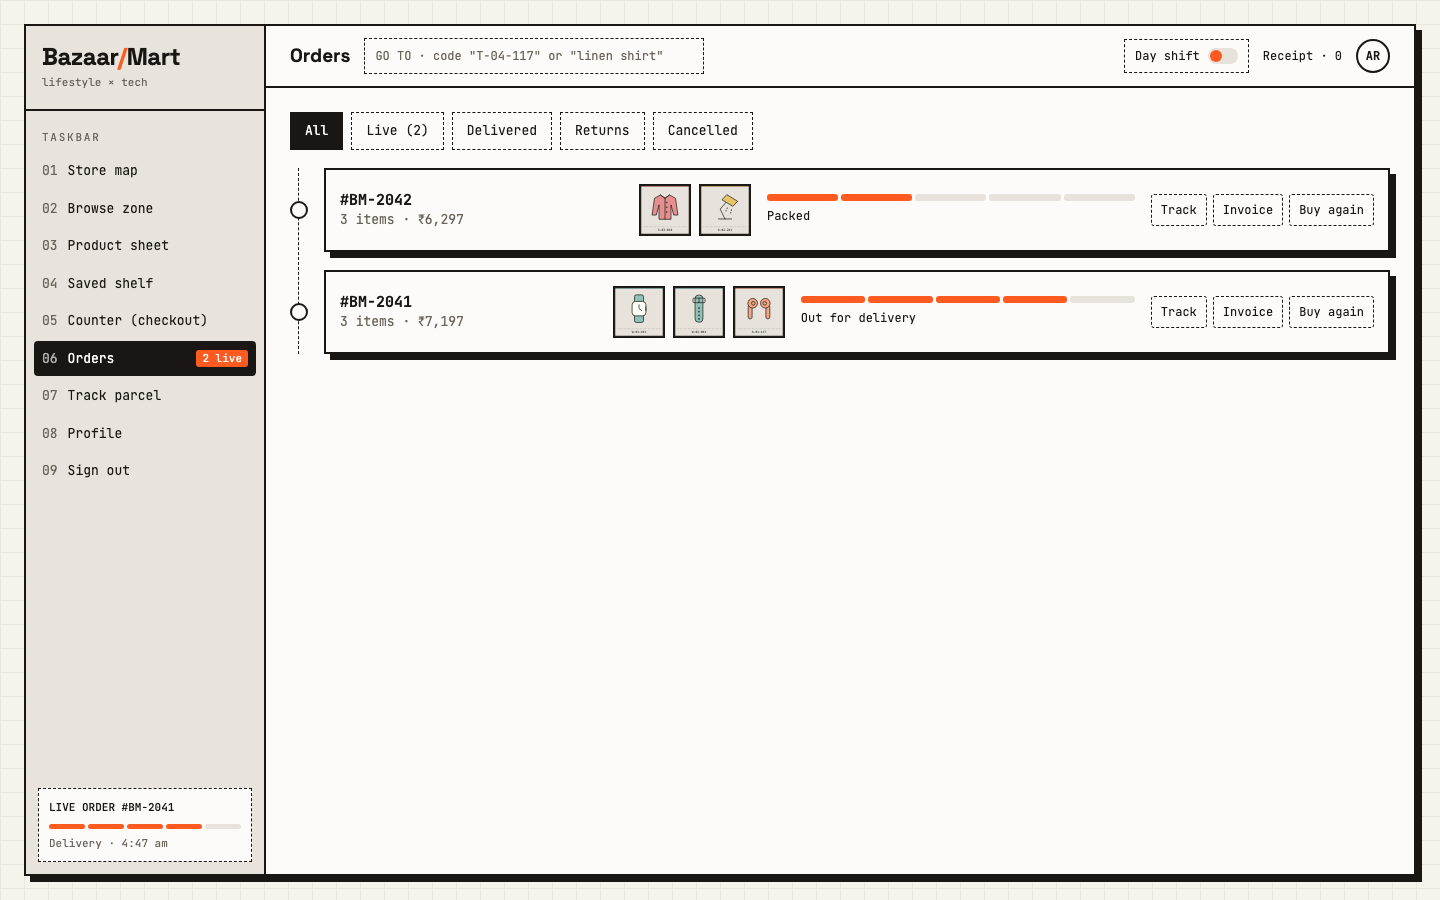
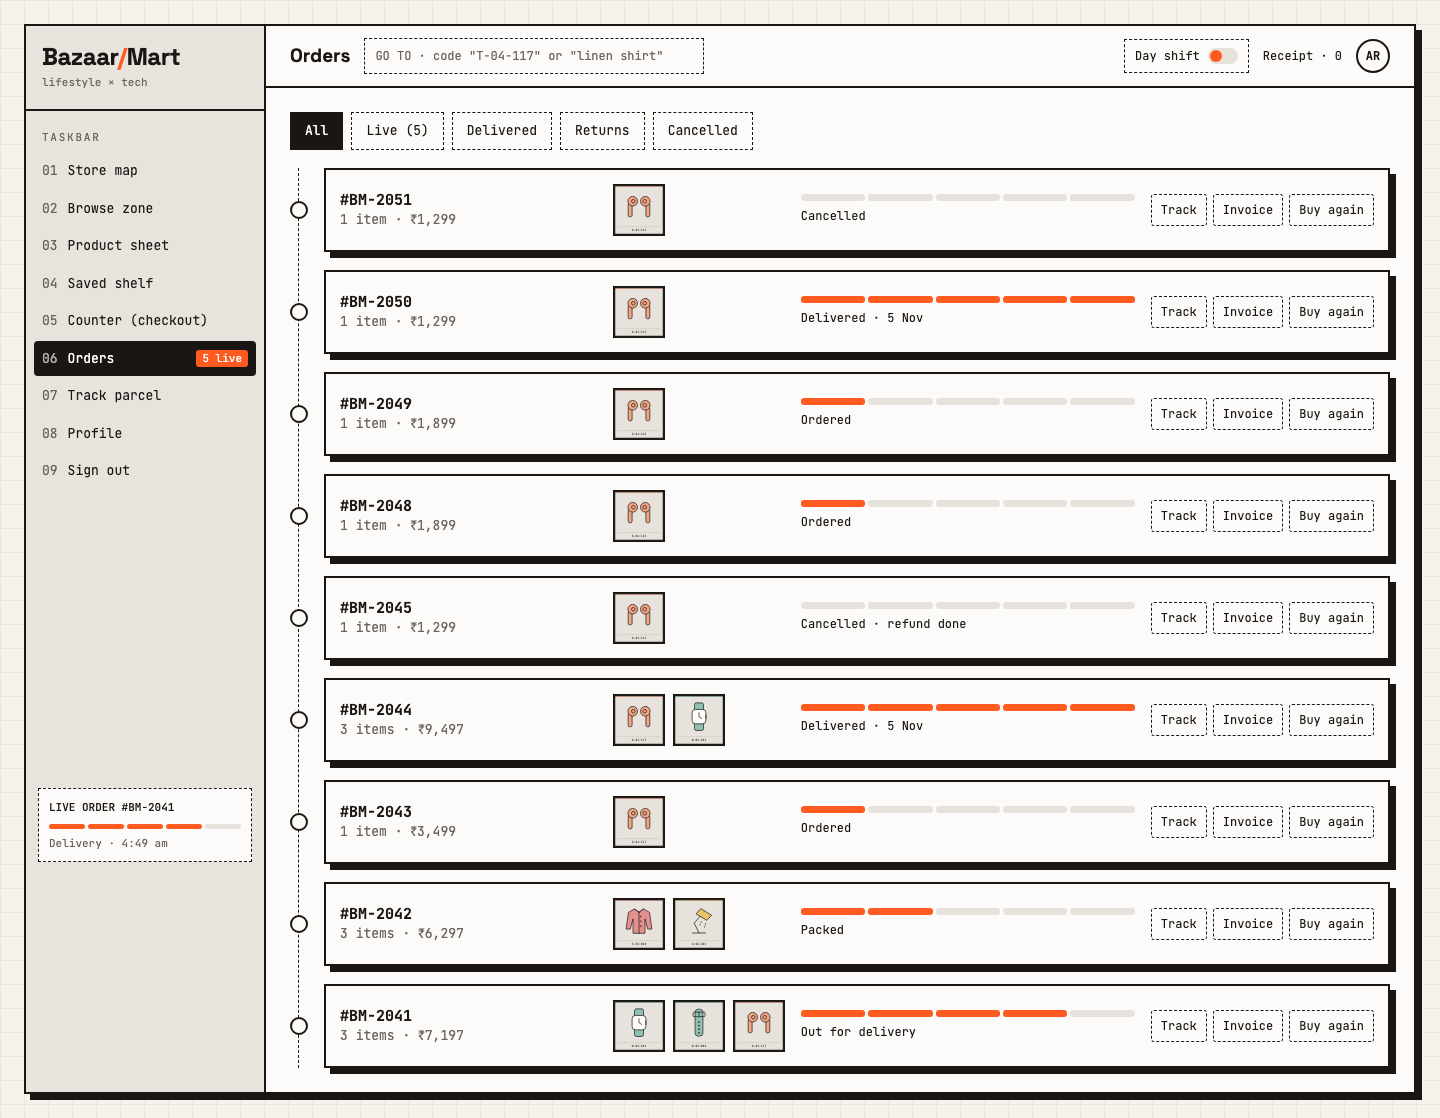
Add the acceptance audit and line up the order progress bars
Records pass or fail with evidence for both checklists, the secret scan, the
fresh clone run and the demo journey. All 20 lines pass.

Changed region(s): [[0.0, 0.0, 1.0, 0.9956]]

diff --git a/frontend/src/styles/pages.css b/frontend/src/styles/pages.css
@@ -350,7 +350,7 @@ body[data-dragging='over'] .receipt-button { background: var(--sticky); color: v
   box-shadow: var(--hard-shadow);
 }
 .order-summary h3 { font: 700 15px var(--font-mono); }
-.order-thumbs { display: flex; gap: 8px; }
+.order-thumbs { display: flex; gap: 8px; width: 172px; }
 .order-thumbs a { flex: 0 0 52px; }
 .order-progress { min-width: 0; font-size: 12px; }
 .order-progress .segments { margin-bottom: 6px; }
@@ -360,6 +360,7 @@ body[data-dragging='over'] .receipt-button { background: var(--sticky); color: v
 
 @media (max-width: 1199px) {
   .order-card { grid-template-columns: minmax(0, 1fr) auto; }
+  .order-thumbs { width: auto; }
   .order-progress { grid-column: 1 / -1; }
   .order-actions { grid-column: 1 / -1; }
 }

diff --git a/docs/ACCEPTANCE.md b/docs/ACCEPTANCE.md
@@ -1,0 +1,96 @@
+# BazaarMart acceptance audit
+
+Audited on 5 November 2026 against CONTEXT.md section 11 and DESIGN.md section 11. **All 20 lines pass.**
+
+"Test C1" means the test with that label in `backend/tests/acceptance.test.js`. Browser checks ran in headless Chromium against a seeded temporary database.
+
+## Results
+
+| Check | Result |
+|---|---|
+| Backend tests (`npm test`) | 308 of 308 pass |
+| Browser checks | 136 of 136 pass, across three suites |
+| Thunder Client collection, replayed from the exported file | 183 of 183 requests return the expected status |
+| Routes in the code missing from the collection | 0 of 54 |
+| curl scripts | All pass, with the catalogue script also run under `REQUIRE_AUTH_FOR_CATALOGUE=true` |
+| `npm audit --omit=dev`, backend and frontend | 0 vulnerabilities |
+
+The collection saw 200, 201, 204, 400, 401, 403, 404, 409, 429 and 501. 503 needs `OTP_MOCK` turned off and 500 needs a database failure, so a request alone can't trigger them.
+
+## CONTEXT.md section 11
+
+| # | Line | Result | Evidence |
+|---|---|---|---|
+| C1 | Duplicate email gives "Email ID is already registered" (409) | Pass | Test C1 |
+| C2 | Unknown email 404, wrong password 401 | Pass | Test C2 |
+| C3 | Products need a valid JWT; a bad or expired token gives 401 and the UI logs out | Pass | Test C3, run with `REQUIRE_AUTH_FOR_CATALOGUE=true`; browser check for the logout and "Session expired" notice |
+| C4 | Profile PUT, PATCH and DELETE work only on your own account (403 otherwise) | Pass | Test C4; browser check confirms the page sends `?emailId=` |
+| C5 | Products: POST 201, GET 200 with `count`, category 200/404, PUT 200/404, DELETE 204/404 | Pass | Test C5 |
+| C6 | Duplicate `productId` 409, missing `productId` query 400, invalid body 400 | Pass | Test C6 |
+| C7 | A non-admin can't create, update or delete products (403) | Pass | Test C7 |
+| C8 | No secrets in the repo; a fresh clone runs with only `.env` files filled in | Pass | Test C8; see "Secrets and fresh clone" |
+| C9 | Layout works at desktop, tablet and phone widths | Pass | See "Layout" |
+
+## DESIGN.md section 11
+
+| # | Line | Result | Evidence |
+|---|---|---|---|
+| D1 | Day and Night shift toggle works and persists | Pass | Browser check, including after a reload |
+| D2 | GO TO: `A-01-117` jumps to its sheet; "earbuds" lists matches | Pass | Test D2; browser checks for SKU + Enter and for picking a result |
+| D3 | Tile sizes reflect stock; click opens the zone; peek shows the first bay | Pass | Test D3; browser checks. Area per unit of stock is within 1.3× across eight zones. Body care is larger than its share so its name stays readable |
+| D4 | Filters change results and the URL | Pass | Test D4; browser check, including a reload |
+| D5 | `+`, the product sheet and conveyor drag all update Receipt · N | Pass | Browser checks for all three, including a drag dropped elsewhere adding nothing |
+| D6 | Guest can check out; a member sees the order; totals are computed server-side | Pass | Test D6, which sends false prices; browser check of the guest journey |
+| D7 | Admin status change updates Orders, the bar, Track, the live badge and the LIVE ORDER card | Pass | Test D7; demo steps 6 and 7 |
+| D8 | OTP works with the mock code; wrong 401, expired 400 | Pass | Test D8; browser check of the six boxes |
+| D9 | Shelf create, share, price drop and move to receipt; the link works logged out | Pass | Test D9; browser checks, including "↓ 12% since saved" |
+| D10 | Addresses CRUD, preference toggles, and PUT, PATCH, DELETE on `?emailId=` (403 on someone else's) | Pass | Test D10, test C4; browser checks |
+| D11 | Layout checked at 1440, 1024, 768 and 390 px in both themes | Pass | See "Layout" |
+
+## Layout
+
+Every page was loaded at 1440, 1024, 768 and 390 px in Day and Night shift, with no sideways page scroll anywhere. Screenshots were also read by eye against the wireframes. Product grids step 6, 4, 3, 2 columns as designed, and no zone name is cut off at any width down to 320 px. On phones the admin tables scroll sideways inside their own box.
+
+## Secrets and fresh clone
+
+- No `.env`, key or credential file is tracked, or has ever been committed.
+- The real `MONGO_URI`, `JWT_SECRET` and seed passwords were each searched for in all tracked files and across all of git history, with 0 matches.
+- A new `git clone` installed, seeded, started, built and passed all 308 tests with only `backend/.env` and `frontend/.env` filled in.
+
+## Demo journey
+
+All 12 steps ran in a real browser and passed.
+
+1. Created an account and signed in.
+2. Found a product with the GO TO box and saved it to a new shelf.
+3. Copied the share link, which opened logged out.
+4. Moved the shelf to the receipt and checked out with a new address and simulated UPI.
+5. Orders, the progress bar, the live badge and the LIVE ORDER card all agreed.
+6. An admin advanced the order to Out for delivery from the admin page.
+7. Orders and Track updated, with the delivery OTP and a narrower ETA window.
+8. Downloaded the invoice.
+9. Edited the profile with PUT. The new password worked and the old one was refused.
+10. Edited the profile with PATCH, which changed only the age.
+11. Deleted the account with DELETE. The login and the share link both stopped working.
+12. The order stayed on record for the admin.
+
+## Fixed during this work
+
+| Problem | Fix |
+|---|---|
+| A deleted account's public shelf links kept working | Deleting an account now removes its shelves |
+| Phone-only accounts couldn't edit or delete themselves, because the lab routes need an email | Added `PATCH` and `DELETE /api/users/me` |
+| Adding an email to a phone account would have lost its receipt | The receipt now uses a stable key |
+| The "account deleted" notice disappeared on the redirect | It's now shown once, in the right order |
+| Order progress bars didn't line up between rows | The thumbnail column has a fixed width |
+
+## Known gaps outside the checklists
+
+These pass nothing and fail nothing above, but differ from the wider design.
+
+- Receipts stay in the browser. DESIGN.md section 2 says they sync for logged-in users.
+- Nobody can answer a customer's Q&A question yet, because there's no answer route or screen.
+- Product sheets show 3 photos, while the wireframe's strip shows 5.
+- The Orders wireframe hides one control behind a sticky note. It's marked [CONFIRM] in DESIGN.md, so it wasn't built.
+
+The README's "Known trade-offs" section lists the deliberate ones, such as the JWT in `localStorage` and the mock OTP, payments and map.
